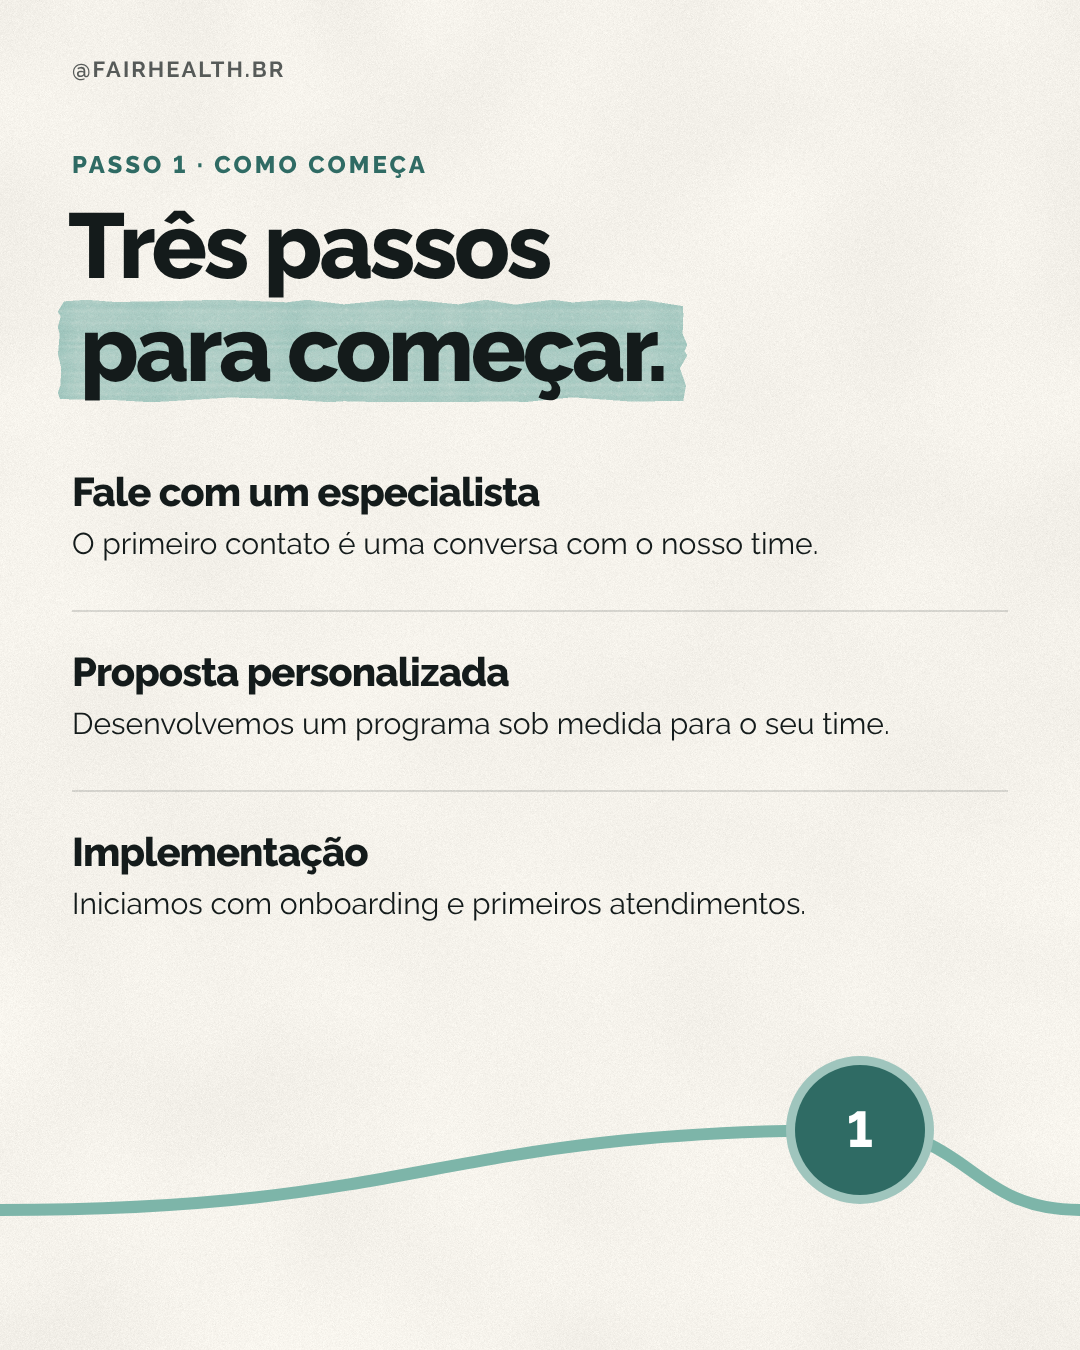
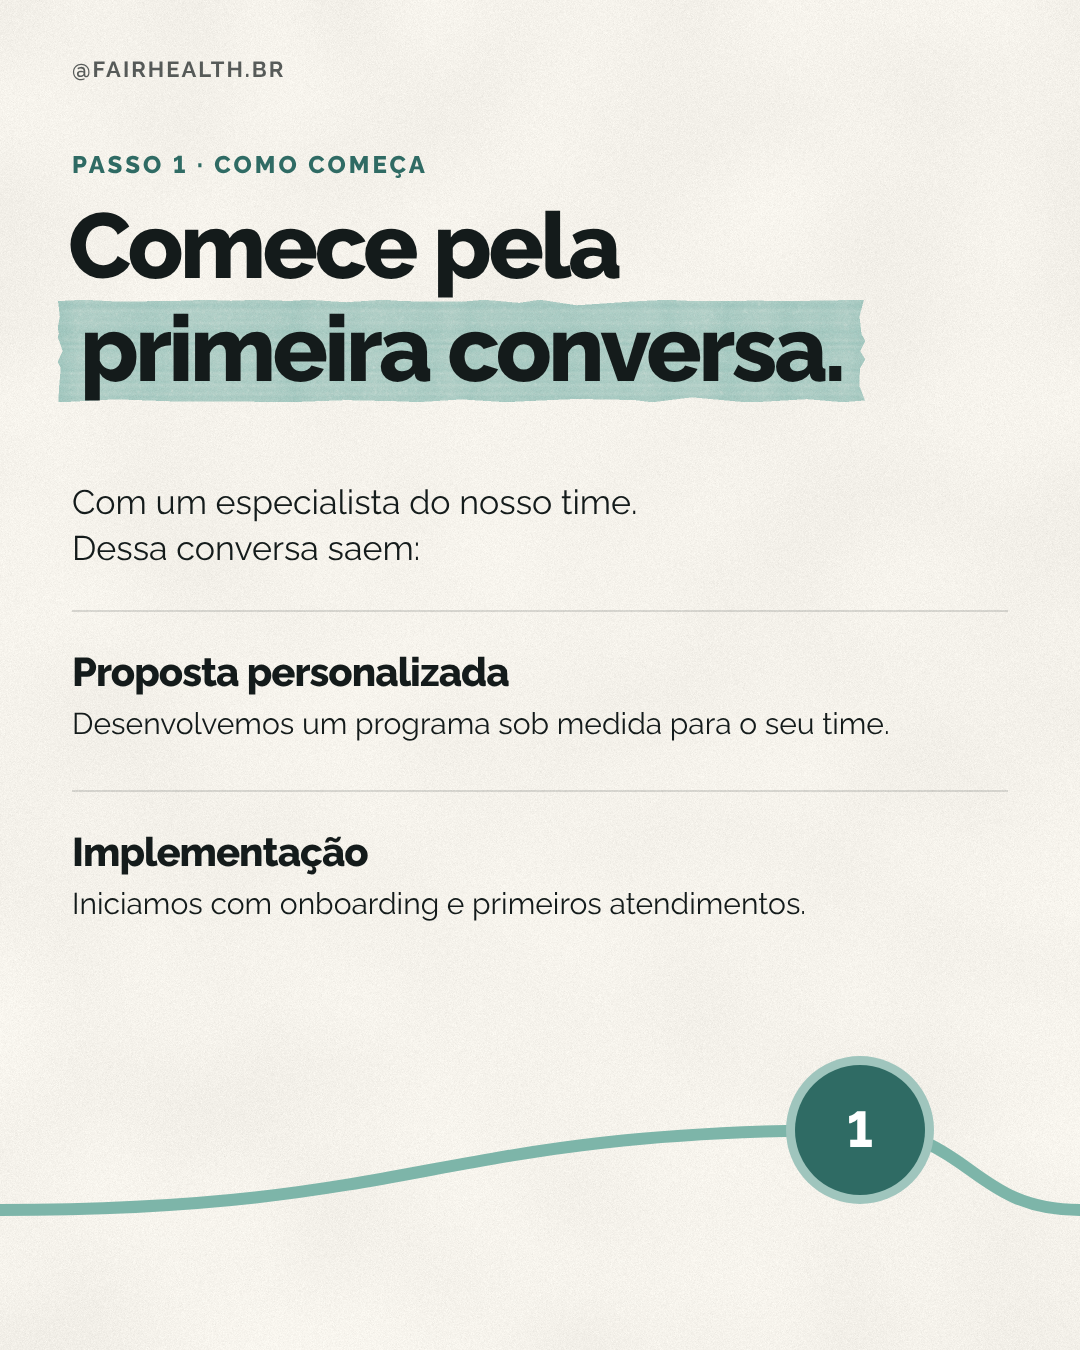
Carrossel 13/11 v10: Passo 1 vira Comece pela primeira conversa, sem três passos dentro
Claude-Session: https://claude.ai/code/session_01WTGmTeoCvP3mtmtt6rLzEQ

Changed region(s): [[0.0611, 0.1556, 0.825, 0.3111], [0.0611, 0.3422, 0.5806, 0.4356]]

diff --git a/instagram/posts/levar-para-empresa/slides-v9.html b/instagram/posts/levar-para-empresa/slides-v9.html
@@ -1,0 +1,166 @@
+<!doctype html>
+<html lang="pt-BR"><head><meta charset="utf-8"><title>Carrossel 13/11: Como levar a fairhealth para a sua empresa</title>
+<link rel="stylesheet" href="../../marca/base.css">
+<style>
+/* Carrossel de 13/11, v9 (13/11): volta o slide "Três passos para começar" (Passo 1, da v2) como slide 2; os outros
+   passos passam a 2, 3 e 4. Fora isso, igual à v8.
+   v8 (12/11): só a capa muda (tópicos em pílulas da v7); os slides 2 a 5 são os da v6, iguais.
+   A capa ganha o começo da linha, que continua no slide 2.
+   v7 (12/11): referência da Nina (tópicos em pílulas com ícone, ligadas por um fio, a primeira
+   escura). A capa ganha os tópicos em pílulas e os outros slides seguem o design da capa: fundo creme com brilho
+   Tiffany, pílula escura com o passo e pílulas claras ligadas por um fio. Sem a linha entre os slides.
+   Ícones em SVG dentro de div posicionado; larguras das pílulas medidas por gerar.py (medir-pilulas.mjs).
+   v6 (12/11): o design da v2 (o caminho) com o conteúdo de 5 slides definido depois: capa com
+   3 marcos (Diagnóstico, Escritório do Cuidado, Mensuração), um slide por passo e o convite "Para começar, fale com
+   um especialista" (sem passo 0).
+   Design v2 (12/11): um caminho em Tiffany liga os slides (referências da Nina: capa com o
+   caminho inteiro e os 4 marcos; nos outros slides, a linha atravessa de um slide para o outro, sempre entrando e
+   saindo na altura 1210, e passa pelo número grande de cada etapa). O caminho é SVG dentro de um div posicionado,
+   para o Canva. A v1 está em slides-v1.html.
+   Design v1 (12/11): o passo a passo, só com o conteúdo do site da fairjob. Mesmo padrão do
+   carrossel de 11/11: capa e convite em creme com brilho Tiffany (fotos/fundo-1.jpg), miolo em papel texturizado
+   (fotos/fundo-papel.jpg), título pesado com marca-texto Tiffany com textura (fotos/tx-*.png, gerados por gerar.py a
+   partir das medidas dos [data-mk]), fecho em serif itálico. Sem numeração de slide. Tudo em posição fixa. */
+@font-face{font-family:"Instrument Serif";font-style:italic;src:url(../../marca/fontes/instrument-serif-latin-400-italic.woff2)}
+.ed{padding:0;text-align:left;align-items:stretch;justify-content:flex-start;background:#EDECE5;color:var(--tinta)}
+.abs{position:absolute;margin:0}
+.topo{position:absolute;top:56px;left:72px;right:72px;display:flex;justify-content:space-between;font-size:22px;font-weight:600;letter-spacing:2px;text-transform:uppercase;opacity:.7;z-index:3}
+.rotulo{font-size:24px;font-weight:800;letter-spacing:3px;text-transform:uppercase;color:var(--escuro)}
+.tit{position:absolute;font-weight:800;letter-spacing:-2.5px;line-height:1;color:var(--tinta);white-space:nowrap;margin:0}
+.mk{position:absolute;font-weight:800;line-height:1.08;white-space:nowrap;margin:0;color:var(--tinta);z-index:2}
+.txt{position:absolute;font-size:31px;line-height:1.38;margin:0}
+.txt b{font-weight:700;font-style:normal;color:var(--escuro)}
+.fecho{position:absolute;font-family:"Instrument Serif",serif;font-style:italic;font-size:44px;line-height:1.08;color:var(--escuro);margin:0}
+.fio{position:absolute;height:2px;background:rgba(20,27,27,.14)}
+.no{position:absolute;width:76px;height:76px;border-radius:50%;background:var(--escuro)}
+.no-t{position:absolute;width:76px;text-align:center !important;font-size:30px;font-weight:800;line-height:36px;color:#fff;margin:0}
+.it{position:absolute;font-size:40px;font-weight:800;letter-spacing:-1px;line-height:1.1;white-space:nowrap;margin:0}
+.it-t{position:absolute;font-size:30px;line-height:1.35;margin:0}
+.it-t b{font-weight:700;font-style:normal;color:var(--escuro)}
+.pt{position:absolute;width:18px;height:18px;border-radius:50%;background:var(--agua, #9FC5BD)}
+.cta{position:absolute;font-size:28px;font-weight:700;line-height:1.3;margin:0;color:var(--escuro)}
+.chip{position:absolute;height:64px;border:2px solid var(--escuro);border-radius:999px}
+.chip-t{position:absolute;text-align:center !important;font-size:26px;font-weight:700;line-height:32px;margin:0;color:var(--escuro);white-space:nowrap}
+.selo{position:absolute;width:400px;height:58px;font-size:30px;font-weight:700;line-height:58px;white-space:nowrap}
+.selo img{position:absolute;left:0;top:0;width:58px;height:58px;border-radius:50%}
+.selo span{position:absolute;left:74px;top:0}
+.lin{position:absolute;height:4px;background:#C9CCC6;border-radius:2px}
+.lin-a{position:absolute;height:14px;background:#9FC5BD;border-radius:7px}
+.marco{position:absolute;width:30px;height:30px;border-radius:50%;background:var(--escuro);border:5px solid #EDECE5}
+.lg{position:absolute;font-size:22px;font-weight:800;letter-spacing:2px;text-transform:uppercase;color:var(--escuro);margin:0;white-space:nowrap}
+.lg-t{position:absolute;font-size:26px;font-weight:600;line-height:1.25;margin:0}
+.cam{position:absolute;left:0;top:0;width:1080px;height:1350px}
+.n-anel{position:absolute;border-radius:50%;background:#9FC5BD}
+.n-bola{position:absolute;border-radius:50%;background:var(--escuro)}
+.n-num{position:absolute;text-align:center !important;font-weight:800;color:#fff;margin:0;white-space:nowrap}
+.c-lg{position:absolute;width:300px;text-align:center !important;font-size:20px;font-weight:800;letter-spacing:2px;text-transform:uppercase;color:var(--escuro);margin:0;white-space:nowrap}
+.c-lg-t{position:absolute;width:300px;text-align:center !important;font-size:26px;font-weight:700;line-height:1.2;margin:0;white-space:nowrap}
+.ed, .ed *{font-variant-numeric:lining-nums}
+.pl{position:absolute;height:72px;border-radius:999px}
+.pl.esc{background:var(--escuro)}
+.pl.cl{background:#FBFCFB}
+.pl-t{position:absolute;font-size:30px;font-weight:600;line-height:36px;white-space:nowrap;margin:0;color:var(--tinta)}
+.pl-t.esc{color:#fff;font-weight:700}
+.ic{position:absolute;width:40px;height:40px}
+.fio-v{position:absolute;width:3px;background:var(--escuro)}
+.ic-c{position:absolute;width:64px;height:64px;border-radius:50%;background:#FBFCFB}
+</style>
+<style media="canva">body{background:none;margin:0}.slide{margin:0}</style></head><body>
+
+<section class="slide ed" id="l-01">
+  <img src="fotos/fundo-1.jpg" class="abs" alt="" style="left:0;top:0;width:1080px;height:1350px">
+  <div class="topo"><span>@fairhealth.br</span><span></span></div>
+  <p class="rotulo abs" style="left:72px;top:150px">Para o RH</p>
+  <h1 class="tit" style="left:68px;top:196px;font-size:84px;letter-spacing:-3.2px;line-height:1.03">Como levar a<br>fairhealth para<br>a sua empresa:</h1>
+  <img src="fotos/tx-v7-capa.png" class="abs" data-tx="v7-capa" alt="" style="left:58px;top:461px;width:644px;height:95px">
+  <p class="mk" data-mk="v7-capa" style="left:62px;top:462px;font-size:84px;letter-spacing:-3.2px"><span>&nbsp;o passo a passo.&nbsp;</span></p>
+  <div class="fio-v" style="left:119px;top:704px;height:336px"></div>
+  <div class="pl esc" data-plbox="capa0" style="left:72px;top:660px;width:632px;height:88px"></div><div class="ic" style="left:96px;top:680px;width:48px;height:48px"><svg width="48" height="48" viewBox="0 0 24 24" fill="none" stroke="#FFFFFF" stroke-width="2" stroke-linecap="round" stroke-linejoin="round"><rect x="3" y="5" width="18" height="16" rx="2"/><path d="M3 10h18M8 3v4M16 3v4"/></svg></div><p class="pl-t esc" data-pl="capa0" style="left:162px;top:682px;font-size:36px;line-height:43px">O passo a passo em 12 meses</p>
+  <div class="pl cl" data-plbox="capa1" style="left:72px;top:772px;width:646px;height:88px"></div><div class="ic" style="left:96px;top:792px;width:48px;height:48px"><svg width="48" height="48" viewBox="0 0 24 24" fill="none" stroke="#2F6B64" stroke-width="2" stroke-linecap="round" stroke-linejoin="round"><circle cx="11" cy="11" r="7"/><path d="M20.5 20.5l-4.5-4.5"/></svg></div><p class="pl-t cl" data-pl="capa1" style="left:162px;top:794px;font-size:36px;line-height:43px">1º mês · Diagnóstico integrado</p>
+  <div class="pl cl" data-plbox="capa2" style="left:72px;top:884px;width:750px;height:88px"></div><div class="ic" style="left:96px;top:904px;width:48px;height:48px"><svg width="48" height="48" viewBox="0 0 24 24" fill="none" stroke="#2F6B64" stroke-width="2" stroke-linecap="round" stroke-linejoin="round"><path d="M12 20s-7.5-4.6-7.5-10.2A4.3 4.3 0 0 1 12 7.2a4.3 4.3 0 0 1 7.5 2.6C19.5 15.4 12 20 12 20z"/></svg></div><p class="pl-t cl" data-pl="capa2" style="left:162px;top:906px;font-size:36px;line-height:43px">1º ao 12º mês · Escritório do Cuidado</p>
+  <div class="pl cl" data-plbox="capa3" style="left:72px;top:996px;width:498px;height:88px"></div><div class="ic" style="left:96px;top:1016px;width:48px;height:48px"><svg width="48" height="48" viewBox="0 0 24 24" fill="none" stroke="#2F6B64" stroke-width="2" stroke-linecap="round" stroke-linejoin="round"><path d="M3 21h18M6 21v-7M11 21V8M16 21v-4M20 21V4"/></svg></div><p class="pl-t cl" data-pl="capa3" style="left:162px;top:1018px;font-size:36px;line-height:43px">12º mês · Mensuração</p>
+  <div class="cam"><svg width="1080" height="1350" viewBox="0 0 1080 1350"><path d="M600 1210 H1080" fill="none" stroke="#7DB5A9" stroke-width="12" stroke-linecap="round" stroke-linejoin="round"/></svg></div>
+  <p class="abs" style="left:72px;top:1192px;font-size:24px;font-weight:700;letter-spacing:3px;text-transform:uppercase;color:var(--escuro)">Arraste para o lado →</p>
+</section>
+
+<section class="slide ed" id="l-02">
+  <img src="fotos/fundo-papel.jpg" class="abs" alt="" style="left:0;top:0;width:1080px;height:1350px">
+  <div class="topo"><span>@fairhealth.br</span><span></span></div>
+  <p class="rotulo abs" style="left:72px;top:150px">Passo 1 · Como começa</p>
+  <h2 class="tit" style="left:68px;top:200px;font-size:92px;letter-spacing:-3.5px">Três passos</h2>
+  <img src="fotos/tx-l02-a.png" class="abs" data-tx="l02-a" alt="" style="left:58px;top:299px;width:629px;height:104px">
+  <p class="mk" data-mk="l02-a" style="left:62px;top:300px;font-size:92px;letter-spacing:-3.5px"><span>&nbsp;para começar.&nbsp;</span></p>
+  <p class="it" style="left:72px;top:470px">Fale com um especialista</p>
+  <p class="it-t" style="left:72px;width:900px;top:524px">O primeiro contato é uma conversa com o nosso time.</p>
+  <div class="fio" style="left:72px;width:936px;top:610px"></div>
+  <p class="it" style="left:72px;top:650px">Proposta personalizada</p>
+  <p class="it-t" style="left:72px;width:900px;top:704px">Desenvolvemos um programa sob medida para o seu time.</p>
+  <div class="fio" style="left:72px;width:936px;top:790px"></div>
+  <p class="it" style="left:72px;top:830px">Implementação</p>
+  <p class="it-t" style="left:72px;width:900px;top:884px">Iniciamos com onboarding e primeiros atendimentos.</p>
+  <div class="cam"><svg width="1080" height="1350" viewBox="0 0 1080 1350"><path d="M0 1210 C430 1210,430 1130,860 1130 C970 1130,970 1210,1080 1210" fill="none" stroke="#7DB5A9" stroke-width="12" stroke-linecap="round" stroke-linejoin="round"/></svg></div>
+  <div class="n-anel" style="left:786px;top:1056px;width:148px;height:148px"></div><div class="n-bola" style="left:795px;top:1065px;width:130px;height:130px"></div><p class="n-num" style="left:795px;width:130px;top:1100px;font-size:50px;line-height:60px">1</p>
+</section>
+
+<section class="slide ed" id="l-03">
+  <img src="fotos/fundo-papel.jpg" class="abs" alt="" style="left:0;top:0;width:1080px;height:1350px">
+  <div class="topo"><span>@fairhealth.br</span><span></span></div>
+  <p class="rotulo abs" style="left:72px;top:150px">Passo 2 · No 1º mês</p>
+  <h2 class="tit" style="left:68px;top:200px;font-size:104px;letter-spacing:-4px">Diagnóstico</h2>
+  <img src="fotos/tx-v6-p1.png" class="abs" data-tx="v6-p1" alt="" style="left:58px;top:311px;width:528px;height:118px">
+  <p class="mk" data-mk="v6-p1" style="left:62px;top:312px;font-size:104px;letter-spacing:-4px"><span>&nbsp;integrado.&nbsp;</span></p>
+  <p class="txt" style="left:72px;width:900px;top:500px;font-size:34px">Antes de cuidar, entender a população: o <b>perfil de saúde</b> com a fairdata e a <b>avaliação de risco</b> por área e faixa etária.</p>
+  <div class="chip" style="left:72px;top:720px;width:430px"></div><p class="chip-t" style="left:72px;width:434px;top:736px">Perfil de saúde · fairdata</p>
+  <div class="chip" style="left:526px;top:720px;width:482px"></div><p class="chip-t" style="left:526px;width:486px;top:736px">Risco por área e faixa etária</p>
+  <p class="fecho" style="left:72px;right:72px;top:850px;font-size:52px">Prioridades por evidência,<br>não por suposição.</p>
+  <div class="cam"><svg width="1080" height="1350" viewBox="0 0 1080 1350"><path d="M0 1210 C430 1210,430 1130,860 1130 C970 1130,970 1210,1080 1210" fill="none" stroke="#7DB5A9" stroke-width="12" stroke-linecap="round" stroke-linejoin="round"/></svg></div>
+  <div class="n-anel" style="left:786px;top:1056px;width:148px;height:148px"></div><div class="n-bola" style="left:795px;top:1065px;width:130px;height:130px"></div><p class="n-num" style="left:795px;width:130px;top:1100px;font-size:50px;line-height:60px">2</p>
+</section>
+
+<section class="slide ed" id="l-04">
+  <img src="fotos/fundo-papel.jpg" class="abs" alt="" style="left:0;top:0;width:1080px;height:1350px">
+  <div class="topo"><span>@fairhealth.br</span><span></span></div>
+  <p class="rotulo abs" style="left:72px;top:130px">Passo 3 · Do 1º ao 12º mês</p>
+  <h2 class="tit" style="left:68px;top:176px;font-size:84px;letter-spacing:-3px">O Escritório do Cuidado,</h2>
+  <img src="fotos/tx-v6-p2.png" class="abs" data-tx="v6-p2" alt="" style="left:58px;top:269px;width:784px;height:95px">
+  <p class="mk" data-mk="v6-p2" style="left:62px;top:270px;font-size:84px;letter-spacing:-3px"><span>&nbsp;dentro da empresa.&nbsp;</span></p>
+  <div class="pt" style="left:78px;top:440px"></div>
+  <p class="it-t" style="left:124px;width:880px;top:422px">Atendimento médico e psicológico num espaço físico, com <b>médicos, psicólogos, assistentes sociais e felicitologistas</b> em plantões alternados.</p>
+  <div class="pt" style="left:78px;top:610px"></div>
+  <p class="it-t" style="left:124px;width:880px;top:592px">Anamnese e medições com <b>bioimpedância e smartwatches</b>.</p>
+  <div class="pt" style="left:78px;top:700px"></div>
+  <p class="it-t" style="left:124px;width:880px;top:682px">Um <b>Plano Individual do Cuidado</b> para cada colaborador, com base na <b>Medicina do Estilo de Vida</b>, que também chega à empresa toda em workshops nos 7 pilares.</p>
+  <p class="fecho" style="left:72px;right:72px;top:880px;font-size:42px">A proximidade aumenta a adesão.<br>A adesão gera resultado.</p>
+  <p class="cta" style="left:72px;width:700px;top:1040px;font-size:27px">Conhece quem decide sobre saúde na sua empresa? Mande este post.</p>
+  <div class="cam"><svg width="1080" height="1350" viewBox="0 0 1080 1350"><path d="M0 1210 C450 1210,450 1170,900 1170 C990 1170,990 1210,1080 1210" fill="none" stroke="#7DB5A9" stroke-width="12" stroke-linecap="round" stroke-linejoin="round"/></svg></div>
+  <div class="n-anel" style="left:826px;top:1096px;width:148px;height:148px"></div><div class="n-bola" style="left:835px;top:1105px;width:130px;height:130px"></div><p class="n-num" style="left:835px;width:130px;top:1140px;font-size:50px;line-height:60px">3</p>
+</section>
+
+<section class="slide ed" id="l-05">
+  <img src="fotos/fundo-papel.jpg" class="abs" alt="" style="left:0;top:0;width:1080px;height:1350px">
+  <div class="topo"><span>@fairhealth.br</span><span></span></div>
+  <p class="rotulo abs" style="left:72px;top:150px">Passo 4 · No 12º mês</p>
+  <h2 class="tit" style="left:68px;top:200px;font-size:104px;letter-spacing:-4px">Mensuração</h2>
+  <img src="fotos/tx-v6-p3.png" class="abs" data-tx="v6-p3" alt="" style="left:58px;top:311px;width:776px;height:118px">
+  <p class="mk" data-mk="v6-p3" style="left:62px;top:312px;font-size:104px;letter-spacing:-4px"><span>&nbsp;e consolidação.&nbsp;</span></p>
+  <p class="txt" style="left:72px;width:900px;top:500px;font-size:32px">Uma nova pesquisa da fairdata mostra a <b>evolução dos indicadores</b>, e sai o relatório de impacto para o financeiro e o plano de saúde.</p>
+  <p class="txt" style="left:72px;width:900px;top:680px;font-size:32px">Ao longo do ano, o RH acompanha com dados <b>anonimizados e agregados</b> no painel da fairdata.</p>
+  <div class="cam"><svg width="1080" height="1350" viewBox="0 0 1080 1350"><path d="M0 1210 C280 1210,280 1110,560 1110 C820 1110,820 1210,1080 1210" fill="none" stroke="#7DB5A9" stroke-width="12" stroke-linecap="round" stroke-linejoin="round"/></svg></div>
+  <div class="n-anel" style="left:486px;top:1036px;width:148px;height:148px"></div><div class="n-bola" style="left:495px;top:1045px;width:130px;height:130px"></div><p class="n-num" style="left:495px;width:130px;top:1080px;font-size:50px;line-height:60px">4</p>
+</section>
+
+<section class="slide ed" id="l-06">
+  <img src="fotos/fundo-1.jpg" class="abs" alt="" style="left:0;top:0;width:1080px;height:1350px">
+  <div class="topo"><span>@fairhealth.br</span><span></span></div>
+  <h2 class="tit" style="left:68px;top:220px;font-size:100px;letter-spacing:-4px;line-height:1.02">Para começar,</h2>
+  <img src="fotos/tx-v6-c1.png" class="abs" data-tx="v6-c1" alt="" style="left:58px;top:333px;width:607px;height:113px">
+  <p class="mk" data-mk="v6-c1" style="left:62px;top:334px;font-size:100px;letter-spacing:-4px"><span>&nbsp;fale com um&nbsp;</span></p>
+  <img src="fotos/tx-v6-c2.png" class="abs" data-tx="v6-c2" alt="" style="left:58px;top:445px;width:604px;height:113px">
+  <p class="mk" data-mk="v6-c2" style="left:62px;top:446px;font-size:100px;letter-spacing:-4px"><span>&nbsp;especialista.&nbsp;</span></p>
+  <p class="txt" style="left:72px;width:880px;top:650px;font-size:32px">Dessa conversa sai uma <b>proposta sob medida</b> para o seu time, e a implementação começa com onboarding e primeiros atendimentos.</p>
+  <p class="txt" style="left:72px;width:880px;top:830px;font-size:36px">Comente <b>CUIDADO</b> e enviamos na DM como o Escritório do Cuidado funciona na sua empresa.</p>
+  <div class="selo" style="left:72px;top:1010px"><img src="../../marca/logo-circulo.png" alt=""><span>@fairhealth.br</span></div>
+  <div class="cam"><svg width="1080" height="1350" viewBox="0 0 1080 1350"><path d="M0 1210 C300 1210,300 1160,600 1160 C800 1160,850 1210,960 1210" fill="none" stroke="#7DB5A9" stroke-width="12" stroke-linecap="round" stroke-linejoin="round"/></svg></div>
+  <div class="n-anel" style="left:934px;top:1184px;width:52px;height:52px"></div><div class="n-bola" style="left:944px;top:1194px;width:32px;height:32px"></div>
+</section>
+</body></html>

diff --git a/instagram/posts/levar-para-empresa/slides.html b/instagram/posts/levar-para-empresa/slides.html
@@ -2,7 +2,9 @@
 <html lang="pt-BR"><head><meta charset="utf-8"><title>Carrossel 13/11: Como levar a fairhealth para a sua empresa</title>
 <link rel="stylesheet" href="../../marca/base.css">
 <style>
-/* Carrossel de 13/11, v9 (13/11): volta o slide "Três passos para começar" (Passo 1, da v2) como slide 2; os outros
+/* Carrossel de 13/11, v10 (13/11): o Passo 1 deixa de ter "três passos" dentro (Nina): "Comece pela primeira
+   conversa", e dela saem a proposta personalizada e a implementação.
+   v9 (13/11): volta o slide "Três passos para começar" (Passo 1, da v2) como slide 2; os outros
    passos passam a 2, 3 e 4. Fora isso, igual à v8.
    v8 (12/11): só a capa muda (tópicos em pílulas da v7); os slides 2 a 5 são os da v6, iguais.
    A capa ganha o começo da linha, que continua no slide 2.
@@ -87,11 +89,10 @@
   <img src="fotos/fundo-papel.jpg" class="abs" alt="" style="left:0;top:0;width:1080px;height:1350px">
   <div class="topo"><span>@fairhealth.br</span><span></span></div>
   <p class="rotulo abs" style="left:72px;top:150px">Passo 1 · Como começa</p>
-  <h2 class="tit" style="left:68px;top:200px;font-size:92px;letter-spacing:-3.5px">Três passos</h2>
-  <img src="fotos/tx-l02-a.png" class="abs" data-tx="l02-a" alt="" style="left:58px;top:299px;width:629px;height:104px">
-  <p class="mk" data-mk="l02-a" style="left:62px;top:300px;font-size:92px;letter-spacing:-3.5px"><span>&nbsp;para começar.&nbsp;</span></p>
-  <p class="it" style="left:72px;top:470px">Fale com um especialista</p>
-  <p class="it-t" style="left:72px;width:900px;top:524px">O primeiro contato é uma conversa com o nosso time.</p>
+  <h2 class="tit" style="left:68px;top:200px;font-size:92px;letter-spacing:-3.5px">Comece pela</h2>
+  <img src="fotos/tx-v10-p1.png" class="abs" data-tx="v10-p1" alt="" style="left:58px;top:299px;width:807px;height:104px">
+  <p class="mk" data-mk="v10-p1" style="left:62px;top:300px;font-size:92px;letter-spacing:-3.5px"><span>&nbsp;primeira conversa.&nbsp;</span></p>
+  <p class="it-t" style="left:72px;width:900px;top:480px;font-size:34px">Com um especialista do nosso time.<br>Dessa conversa saem:</p>
   <div class="fio" style="left:72px;width:936px;top:610px"></div>
   <p class="it" style="left:72px;top:650px">Proposta personalizada</p>
   <p class="it-t" style="left:72px;width:900px;top:704px">Desenvolvemos um programa sob medida para o seu time.</p>

diff --git a/instagram/posts/levar-para-empresa/README.md b/instagram/posts/levar-para-empresa/README.md
@@ -216,3 +216,11 @@ Pedido da Nina: voltar o slide "Passo 1 · Como começa / Três passos para come
   como a Nina deixou no Canva (sem a pílula escura).
 - **Legenda:** na mesma ordem: Passo 1 (conversa, proposta, implementação), Passo 2 (diagnóstico), Passo 3
   (Escritório do Cuidado), Passo 4 (mensuração). Saiu o parágrafo "Para começar...", que virou o Passo 1.
+
+## v10 (13/11): o Passo 1 sem passos dentro (versão atual)
+
+A Nina não queria um Passo 1 com três passos embutidos. O slide 2 virou "Comece pela primeira conversa.": "Com um
+especialista do nosso time. Dessa conversa saem:" e, abaixo, Proposta personalizada e Implementação (texto do site).
+Legenda: "Passo 1: comece pela primeira conversa, com um especialista do nosso time. É dela que saem a proposta
+personalizada... e a implementação...". A v9 fica em `slides-v9.html`, `png-v9/`, `previa-v9.png`. No Canva, a mesma
+mudança foi feita na página 2 do design `DAHav6ueu9g`.
